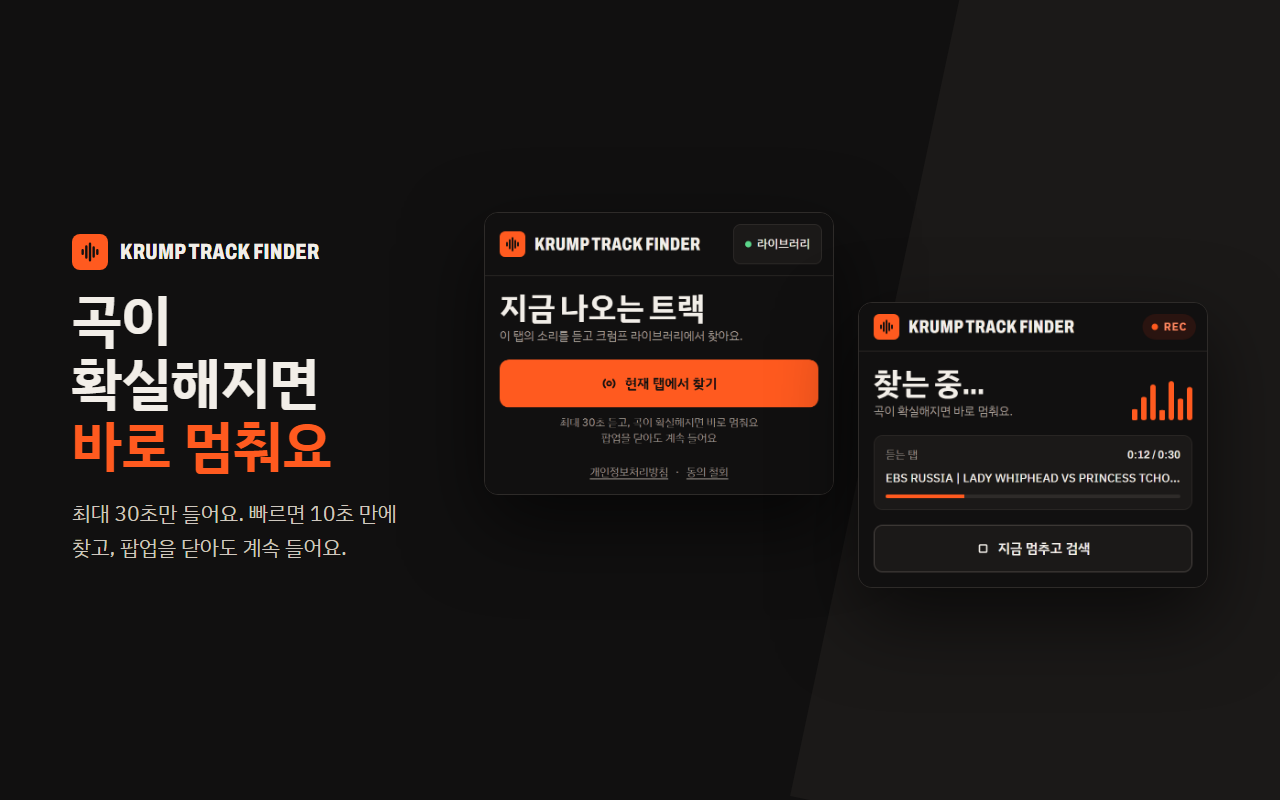
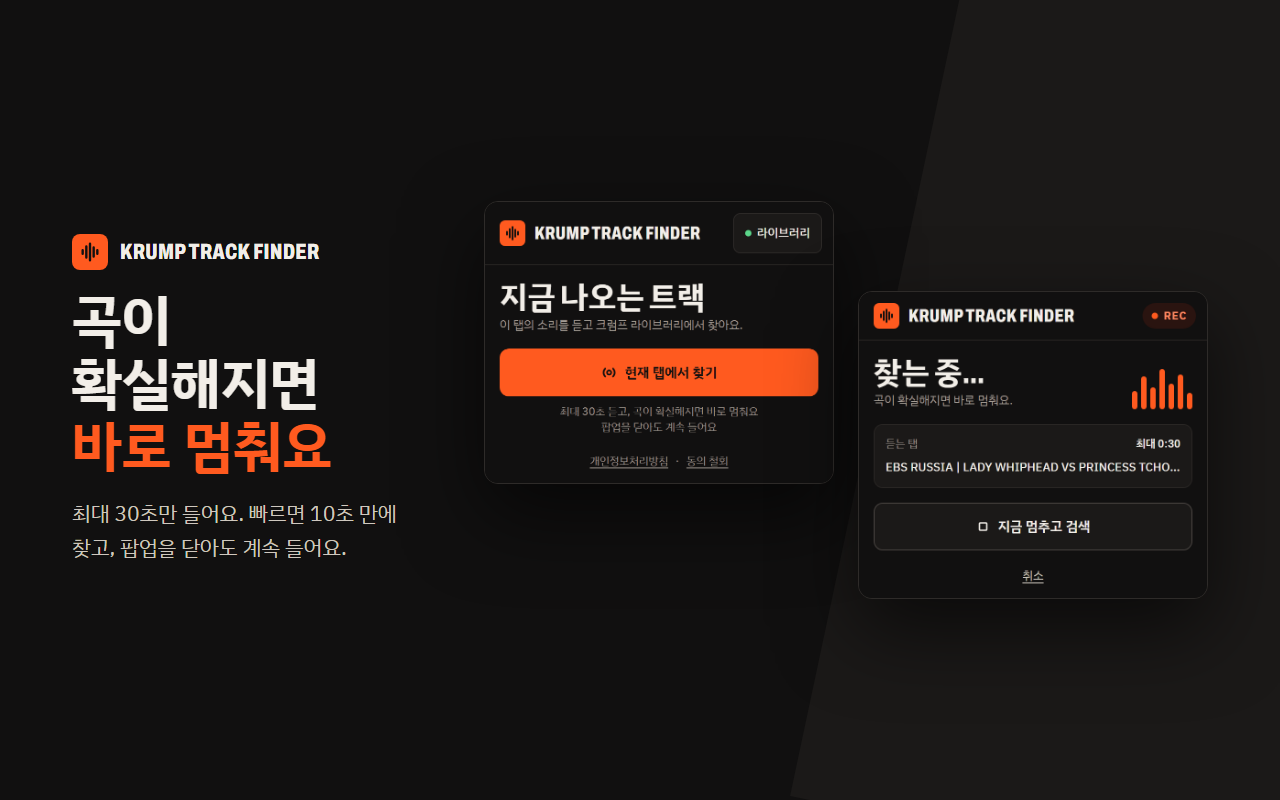
Keep every popup screen still
The listening screen's moving bars, elapsed time and progress bar, and the preview's position and
bar are gone: the bars are a still picture and the time reads 최대 0:30. With them the captured
YouTube tab kept stuttering during a search; without them it no longer does (tried by hand). Store
screenshots 2 and 3 show the screens as they are now.

Changed region(s): [[0.375, 0.25, 0.6562, 0.625], [0.6562, 0.375, 0.9375, 0.75], [0.875, 0.375, 0.9375, 0.4375]]

diff --git a/extension/popup.js b/extension/popup.js
@@ -35,7 +35,6 @@ const ICON = {
 let consent = false;  // chrome.storage.local 'consent' is POLICY
 let agreedBefore = false;  // consented to an earlier policy: the consent screen says what changed
 const openPage = (file) => chrome.tabs.create({ url: chrome.runtime.getURL(file) });
-let tick = null;
 let serverDot = '';  // '', 'on' or 'off' (checkServer)
 let answered = null;  // { id, correct } of the last result answered (ask)
 let current = {};  // the state last rendered
@@ -158,7 +157,6 @@ function headAction(state) {
 
 function render(state = {}) {
   current = state || {};
-  clearInterval(tick);
   headAction(current);
   const view = $('view');
   view.textContent = '';
@@ -241,16 +239,8 @@ function videoRecords() {
 
 function listening(state) {
   const searching = state.status === 'searching';
-  const time = h('span', { class: 'num' });
-  const fill = h('div');
-  const update = () => {
-    const total = state.duration || 30;
-    const t = searching ? total : Math.min(total, (Date.now() - (state.startedAt || Date.now())) / 1000);
-    time.textContent = searching ? '검색 중' : `${fmt(t)} / ${fmt(total)}`;
-    fill.style.width = `${(t / total) * 100}%`;
-  };
-  update();
-  if (!searching) tick = setInterval(update, 500);
+  // No elapsed time or progress bar: nothing on screen changes while the tab is captured.
+  const time = h('span', { class: 'num' }, searching ? '검색 중' : `최대 ${fmt(state.duration || 30)}`);
   const eq = h('div', { class: 'eq', 'aria-hidden': 'true' }, ...Array.from({ length: 7 }, () => h('span')));
   return [
     h('div', { class: 'listen-head' },
@@ -259,8 +249,7 @@ function listening(state) {
       eq),
     h('div', { class: 'panel' },
       h('div', { class: 'panel-row' }, h('span', {}, '듣는 탭'), time),
-      h('div', { class: 'tab-title', title: state.tabTitle || '' }, state.tabTitle || '현재 탭'),
-      h('div', { class: 'bar', 'aria-hidden': 'true' }, fill)),
+      h('div', { class: 'tab-title', title: state.tabTitle || '' }, state.tabTitle || '현재 탭')),
     searching
       ? h('button', { class: 'secondary', disabled: true }, '검색 중…')
       : h('button', { class: 'secondary', onclick: () => chrome.runtime.sendMessage({ target: 'background', type: 'stop' }) },
@@ -368,8 +357,7 @@ function preview(m) {
   const p = $('player');
   p.volume = 0.5;
   const btn = h('button', { class: 'play' });
-  const time = h('span', {}, '0:10');
-  const fill = h('div');
+  const time = h('span', {}, '0:10');  // stays still while playing, like every screen
   let loaded = false;
   const show = (state) => {
     btn.disabled = state === 'loading';
@@ -377,10 +365,6 @@ function preview(m) {
     btn.setAttribute('aria-label', playing ? '미리듣기 멈춤' : '10초 미리듣기 재생');
     btn.textContent = '';
     btn.append(icon(playing ? 'pause' : 'play'));
-  };
-  p.ontimeupdate = () => {
-    time.textContent = `${fmt(p.currentTime)} / ${fmt(p.duration || 10)}`;
-    fill.style.width = `${(p.currentTime / (p.duration || 10)) * 100}%`;
   };
   p.onended = p.onpause = () => show('paused');
   p.onplay = () => show('playing');
@@ -397,6 +381,7 @@ function preview(m) {
         if (p.src.startsWith('blob:')) URL.revokeObjectURL(p.src);
         p.src = URL.createObjectURL(await r.blob());
         loaded = true;
+        time.textContent = '0:10';
       } catch (e) {
         show('paused');
         time.textContent = `불러오지 못함 (${e.message})`;
@@ -409,8 +394,7 @@ function preview(m) {
   show('paused');
   return h('div', { class: 'player' }, btn,
     h('div', { class: 'player-info' },
-      h('div', { class: 'player-row' }, h('span', {}, '10초 미리듣기'), time),
-      h('div', { class: 'bar light', 'aria-hidden': 'true' }, fill)));
+      h('div', { class: 'player-row' }, h('span', {}, '10초 미리듣기'), time)));
 }
 
 // One answer per result. It is kept in chrome.storage.session ('answered'), so reopening the

diff --git a/extension/popup.css b/extension/popup.css
@@ -52,21 +52,17 @@ main { display: flex; flex-direction: column; gap: 16px; padding: 18px 16px 16px
 /* Listening */
 .listen-head { display: flex; align-items: flex-end; justify-content: space-between; gap: 12px; }
 .eq { display: flex; align-items: flex-end; gap: 4px; height: 44px; }
-.eq span { display: block; width: 6px; height: 44px; border-radius: 3px; background: var(--accent);
-           transform-origin: 50% 100%; animation: eq 1s ease-in-out infinite; }
-.eq span:nth-child(2) { animation-delay: -.7s; } .eq span:nth-child(3) { animation-delay: -.3s; }
-.eq span:nth-child(4) { animation-delay: -.9s; } .eq span:nth-child(5) { animation-delay: -.5s; }
-.eq span:nth-child(6) { animation-delay: -.15s; } .eq span:nth-child(7) { animation-delay: -.6s; }
-@keyframes eq { 0%, 100% { transform: scaleY(.25); } 50% { transform: scaleY(1); } }
-@media (prefers-reduced-motion: reduce) { .eq span { animation: none; transform: scaleY(.6); } }
+/* Nothing on any screen moves (no animation, transition or ticking timer): with them the captured
+   tab stuttered during a search (docs/extension.md §3). The bars are a still picture. */
+.eq span { display: block; width: 6px; border-radius: 3px; background: var(--accent); }
+.eq span:nth-child(1) { height: 20px; } .eq span:nth-child(2) { height: 36px; } .eq span:nth-child(3) { height: 24px; }
+.eq span:nth-child(4) { height: 44px; } .eq span:nth-child(5) { height: 28px; } .eq span:nth-child(6) { height: 38px; }
+.eq span:nth-child(7) { height: 18px; }
 .panel { display: flex; flex-direction: column; gap: 8px; padding: 12px; border-radius: 10px;
          background: var(--surface); border: 1px solid var(--line); }
 .panel-row { display: flex; justify-content: space-between; font-size: 12px; color: var(--muted); }
 .num { font-family: var(--display); font-weight: 600; color: var(--fg); font-variant-numeric: tabular-nums; }
 .tab-title { font-size: 13px; font-weight: 500; white-space: nowrap; overflow: hidden; text-overflow: ellipsis; }
-.bar { height: 4px; border-radius: 2px; background: #2e2b29; overflow: hidden; }
-.bar > div { height: 4px; width: 0; background: var(--accent); transition: width .4s linear; }
-.bar.light > div { background: var(--fg); }
 
 /* Result */
 .verdict { display: flex; align-items: center; gap: 10px; min-width: 0; }

diff --git a/docs/extension.md b/docs/extension.md
@@ -60,8 +60,12 @@
 - **대기**: **현재 탭에서 찾기**와 "최대 30초 듣고, 곡이 확실해지면 바로 멈춰요 / 팝업을 닫아도 계속 들어요"
   안내. 녹음 길이는 고르지 않는다. 아래에 개인정보처리방침과 동의 철회 링크. 영상 탭에서는 아래 "영상 탭의 대기 화면"이
   더해진다.
-- **찾는 중**: 경과 시간("0:12 / 0:30", 다시 찾기에서 늘렸으면 "/ 0:45", "/ 1:00"), 듣는 탭 제목,
+- **찾는 중**: 최대 길이("최대 0:30", 다시 찾기에서 늘렸으면 "최대 0:45", "최대 1:00"), 듣는 탭 제목,
   **지금 멈추고 검색**, **취소**. 녹음 중 힌트와 검색 세부는 보이지 않는다.
+
+어느 화면에도 움직임이 없다. 애니메이션, 전환 효과, 경과 시간, 진행 막대를 모두 뺐다. 찾는 중 화면의 막대 그림도 멈춰 있고,
+미리듣기도 재생 위치를 보여 주지 않는다. 이것들이 있을 때는 찾는 동안 캡처 중인 유튜브 탭이 자꾸 끊겼고, 빼고 나서는
+끊기지 않았다(2026-10-22, 손으로 확인). 화면에 움직임을 다시 넣지 않는다.
 - **결과**: 찾음, 찾음 · 확실하지 않음, 못 찾음.
 - **못 찾음**: 팁 세 줄, 최대 녹음 길이(30초 / 45초 / 1분, 처음엔 30초가 눌려 있음), **다시 찾기**. 다시 찾기는
   대기 화면을 거치지 않고 고른 길이로 바로 듣는다. 고른 길이는 저장하지 않아 다음 찾기는 다시 30초로 시작한다.
